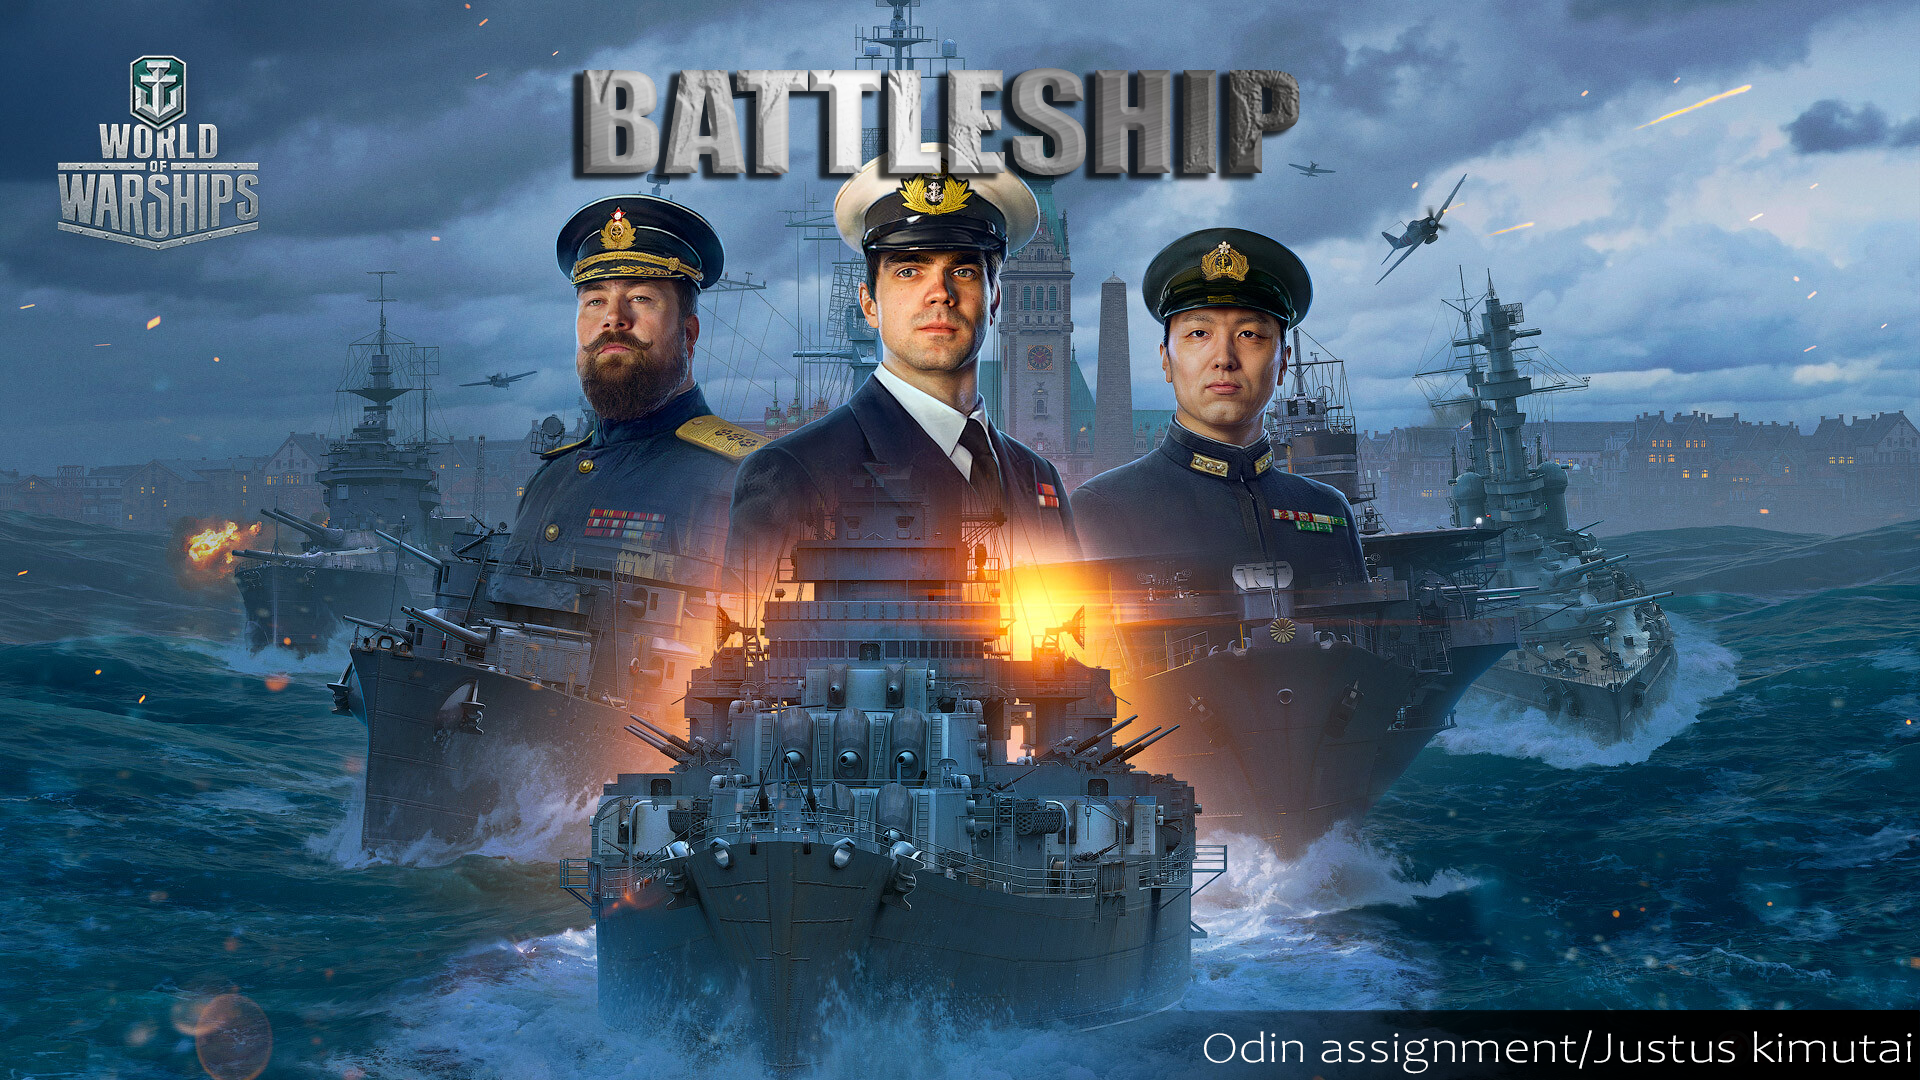
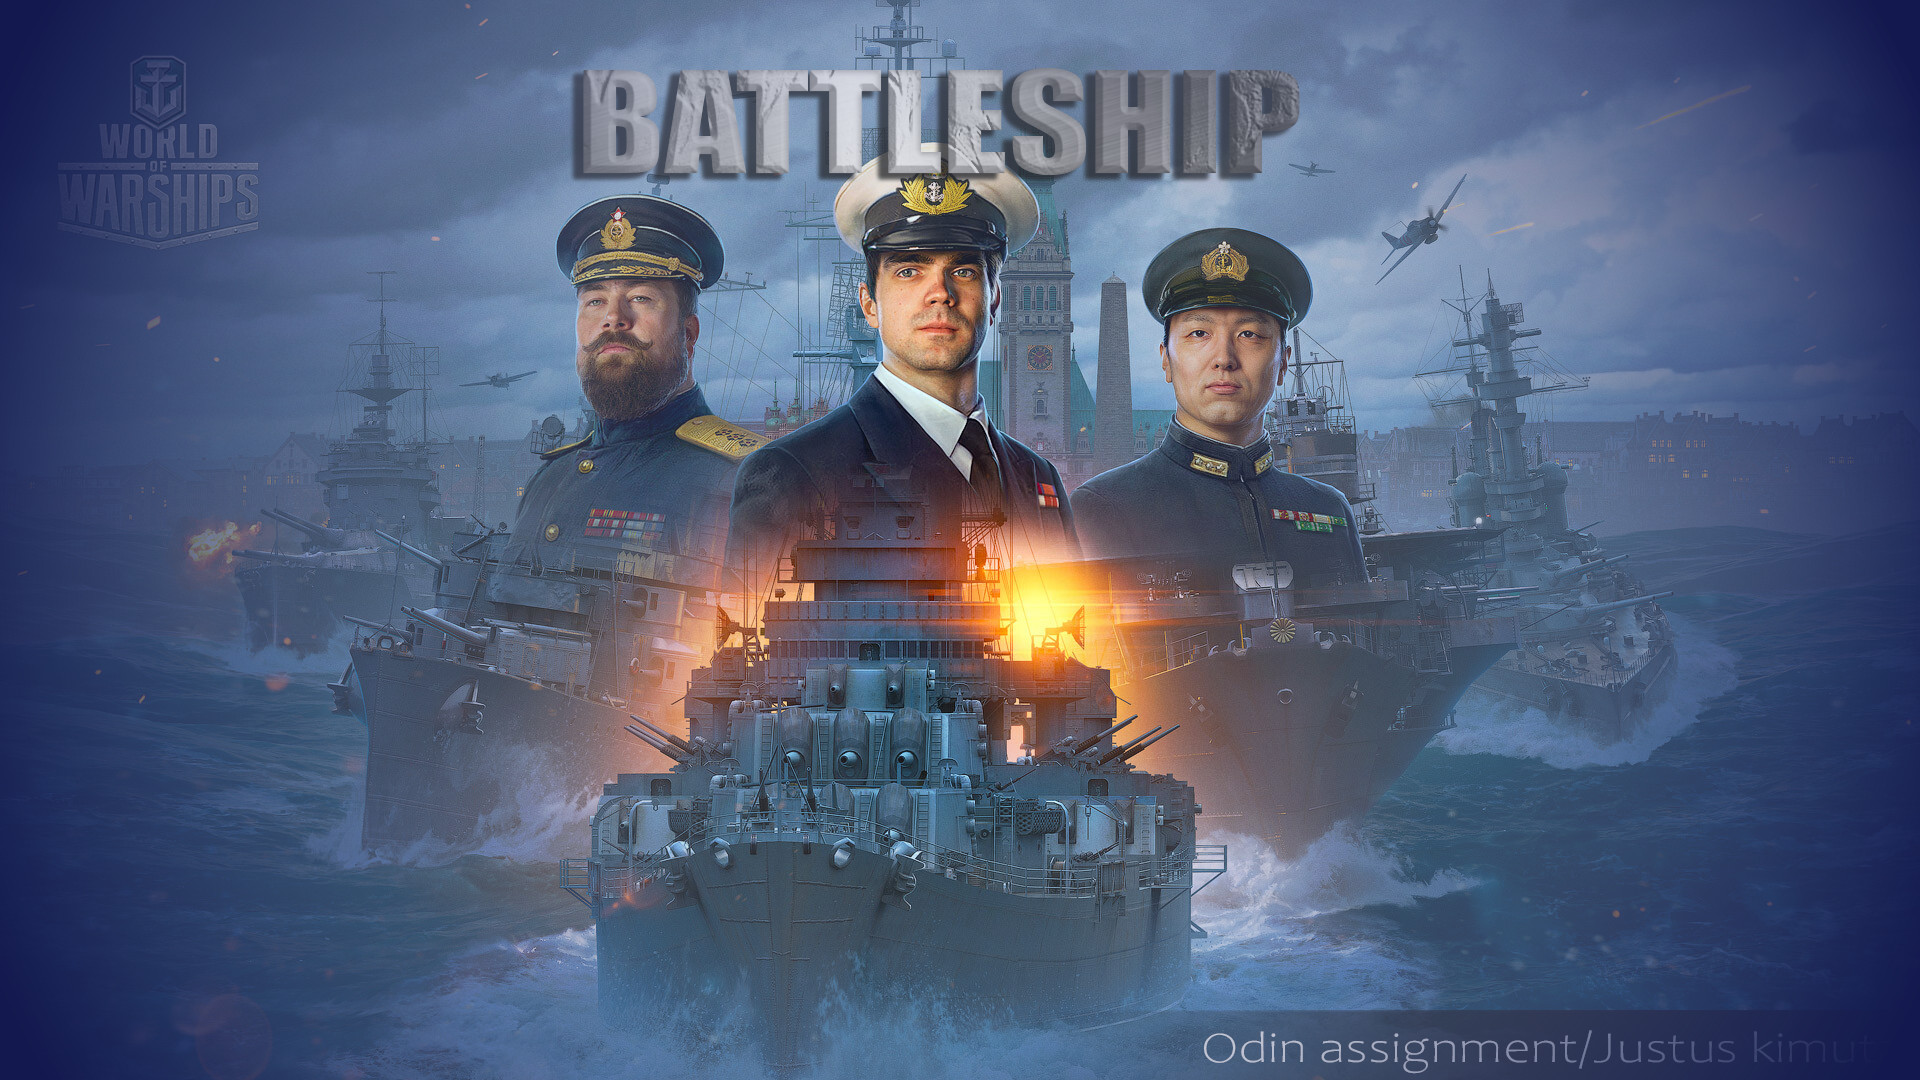
add intro to the battle Ocean

diff --git a/styles.css b/styles.css
@@ -6,12 +6,59 @@ body{
     background-size: cover;
     font-family: sans-serif;
     height: 100vh;
+    width: 100vw;
 }
+img{
+    max-width: 100%;
+    max-height: 100%;
+}
+
 
 .container{
     margin: 0 auto;
     width: 80%;
 }
+.intro-content{
+    color: silver;
+    font-size: 2em;
+    background: linear-gradient(to right, rgba(0,0,0,0) 0%, rgb(3, 3, 75) 50%, rgba(0,0,0,0) 100%);
+    padding: 20px;
+    display: flex;
+    flex-direction:column ;
+    justify-content: center;
+    align-items: center;
+}
+.name{
+    font-size: 1em;
+    background-color: silver;
+    visibility: hidden;
+}
+.btn-continue{
+    font-size: .6em;
+    font-weight: 500;
+    background-color: silver;
+    color: rgb(3, 3, 75);
+    border-radius: 10px;
+    margin-top: 50px;
+    padding: 5px 20px;
+    visibility: hidden;
+}
+
+.intro-screen{
+    background: url('/battleship\ Assignment.png');
+    position: absolute;
+    top: 0  ;
+    bottom: 0;
+    left: 0;
+    right: 0;
+    z-index: 1000;
+    display: flex;
+    justify-content: center;
+    align-items: center;
+    text-align: center;
+    /* display: none; */
+}
+
 .header{
     height: 8vh;
     background: rgb(3, 3, 75);
@@ -21,6 +68,7 @@ body{
     text-transform: uppercase;
     font-weight: 700;
 }
+
 .status-bar{
     background: linear-gradient(to right, rgba(0,0,0,0) 0%, #C0C0C0 50%, rgba(0,0,0,0) 100%);
     text-align: center;
@@ -40,7 +88,7 @@ body{
     height: 100%;
     width: 100%;
     background-color: rgba(255, 0, 0, 0.575);
-    z-index: 10;
+    z-index: 100000;
 
     display: flex;
     flex-direction: column;
@@ -49,6 +97,11 @@ body{
     color: #000000 ;
     
     display: none;
+}
+.gameOver p{
+    font-size: 1.2em;
+    font-weight: 700;
+    
 }
 
 .attacked{
@@ -78,6 +131,30 @@ body{
 .board2div,
 .board1div{
     position: relative;
+}
+
+.board1div{
+    display: none;
+}
+
+.shuffle-btn-div{
+    text-align: center;
+    display: flex;
+    justify-content: center;
+    gap: 50px;
+    display: none;
+}
+
+.shuffleShip{
+    background: silver;
+    color: #000000;
+    font-size: 1.2em;
+    border: none;
+    padding: 5px 25px;
+    border-radius: 10px;
+}
+.shuffleShip:hover{
+    cursor: pointer;
 }
 
 .board1,
@@ -118,7 +195,7 @@ body{
     z-index: 100;
 }
 .board2div .cover-vale{
-    display: block;
+    /* display: block; */
 }
 
 

diff --git a/index.html b/index.html
@@ -3,11 +3,28 @@
 <head>
     <meta charset="UTF-8">
     <meta name="viewport" content="width=device-width, initial-scale=1.0">
-    <title>Document</title>
+    <title>battleship</title>
     <link rel="stylesheet" href="styles.css">
 </head>
 
 <body>
+
+    <div class="intro-screen">
+
+        <div class="intro-content">
+            <h1 class="label-text"></h1>
+
+            <input type="text" class="name">
+            
+            <div class="btn-div">
+
+                <button class="btn-continue">Continue</button>
+
+            </div>
+        </div>
+        
+    </div>
+
     <div class="gameOver">
         <h1>Game Over</h1>
     </div>
@@ -33,6 +50,11 @@
             </div>
         </div>
 
+        <div class="shuffle-btn-div">
+            <button class="shuffleShip">Shuffle</button>
+            <button class="shuffleShip shuffle-done">Done</button>
+        </div>
+
     </div>
 
     <div class="footer">
@@ -42,6 +64,10 @@
 </body>
 
 </html>
+
+
+
+
 
 
 

diff --git a/app.js b/app.js
@@ -67,8 +67,8 @@ export class GameBoard{
         return this.intelligenceMessage;
     }
 
-    checkhittedCell(){
-
+    refreshBoard(){
+        this.board = board()
     }
     
     receiveAttack(x,y){
